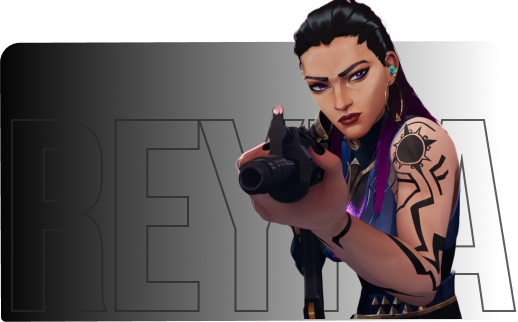
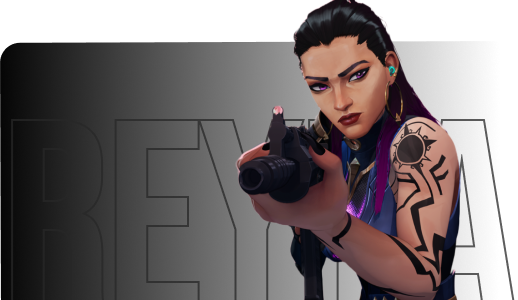
Made changes to reyna image, made omen img area shorter, reyna card shorter

diff --git a/lib/screens/gameProfileScreenLayout.dart b/lib/screens/gameProfileScreenLayout.dart
@@ -40,7 +40,7 @@ class _GameProfileScreenLayoutState extends State<GameProfileScreenLayout> {
                 SliverAppBar(
                   automaticallyImplyLeading: false,
                   pinned: true,
-                  expandedHeight: 500,
+                  expandedHeight: 400,
                   flexibleSpace: FlexibleSpaceBar(
                     background: Stack(
                       children: [
@@ -50,8 +50,7 @@ class _GameProfileScreenLayoutState extends State<GameProfileScreenLayout> {
                           fit: BoxFit.cover,
                         ),
                         Container(
-                          margin: EdgeInsets.symmetric(
-                              horizontal: 100, vertical: 20),
+                          margin: EdgeInsets.only(left: 100, right: 100),
                           child: Row(
                             mainAxisAlignment: MainAxisAlignment.spaceBetween,
                             children: [
@@ -73,9 +72,11 @@ class _GameProfileScreenLayoutState extends State<GameProfileScreenLayout> {
                               Container(
                                 // height: 200,
                                 width: 300,
+
                                 child: Column(
                                   children: [
                                     GameProfileLeftSection(cardLength: "short"),
+                                    SizedBox(height: 20),
                                     ClipRRect(
                                       borderRadius:
                                           BorderRadius.all(Radius.circular(20)),
@@ -89,7 +90,7 @@ class _GameProfileScreenLayoutState extends State<GameProfileScreenLayout> {
                                                 bgPrimaryColor
                                               ]),
                                         ),
-                                        height: 100,
+                                        height: 80,
                                         width: 300,
                                       ),
                                     )

diff --git a/lib/screens/gameProfileWidgets/gameProfileLeftSection.dart b/lib/screens/gameProfileWidgets/gameProfileLeftSection.dart
@@ -14,7 +14,7 @@ class _GameProfileLeftSectionState extends State<GameProfileLeftSection> {
   @override
   Widget build(BuildContext context) {
     return Container(
-      margin: EdgeInsets.symmetric(vertical: 30),
+      margin: EdgeInsets.only(top: 30),
       decoration: BoxDecoration(
           // color: Colors.blue,
           ),
@@ -24,8 +24,11 @@ class _GameProfileLeftSectionState extends State<GameProfileLeftSection> {
           child: Column(
             children: [
               ConstrainedBox(
-                  constraints: BoxConstraints(maxWidth: 400),
-                  child: Image.asset('/Reyna-1.png')),
+                constraints: BoxConstraints(maxWidth: 400),
+                child: Image.asset(
+                  '/Reyna-1.png',
+                ),
+              ),
               ClipRRect(
                 borderRadius: BorderRadius.only(
                     bottomLeft: Radius.circular(20),
@@ -37,7 +40,7 @@ class _GameProfileLeftSectionState extends State<GameProfileLeftSection> {
                         end: Alignment.bottomCenter,
                         colors: [secondaryColor, bgPrimaryColor]),
                   ),
-                  height: widget.cardLength == "long" ? 400 : 100,
+                  height: widget.cardLength == "long" ? 400 : 70,
                   width: 300,
                 ),
               )

diff --git a/lib/screens/tournamentWidgets/TournamentTile.dart b/lib/screens/tournamentWidgets/TournamentTile.dart
@@ -150,12 +150,7 @@ class TournamentTile extends StatelessWidget {
                         child: Row(
                           crossAxisAlignment: CrossAxisAlignment.start,
                           children: [
-                            RichText(
-                              text: TextSpan(
-                                  text: "Status :   ",
-                                  style: TextStyle(color: Colors.white),
-                                  children: []),
-                            ),
+                            Text("Status :   "),
                             Text(status, style: TextStyle(color: statusColor)),
                           ],
                         ),
